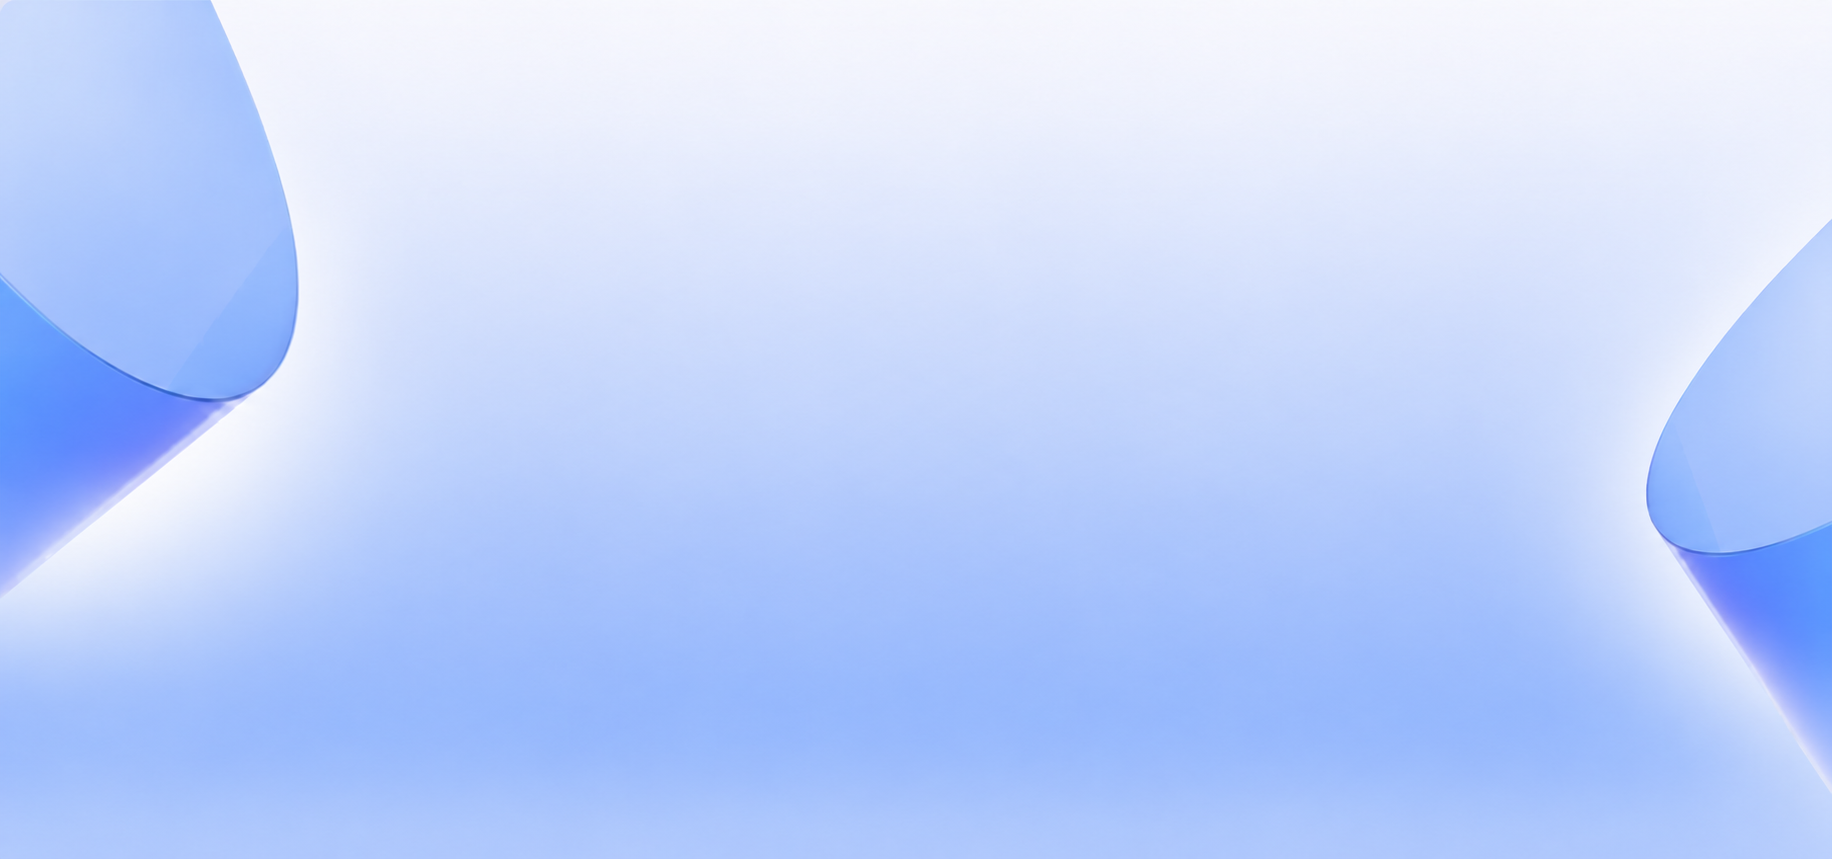
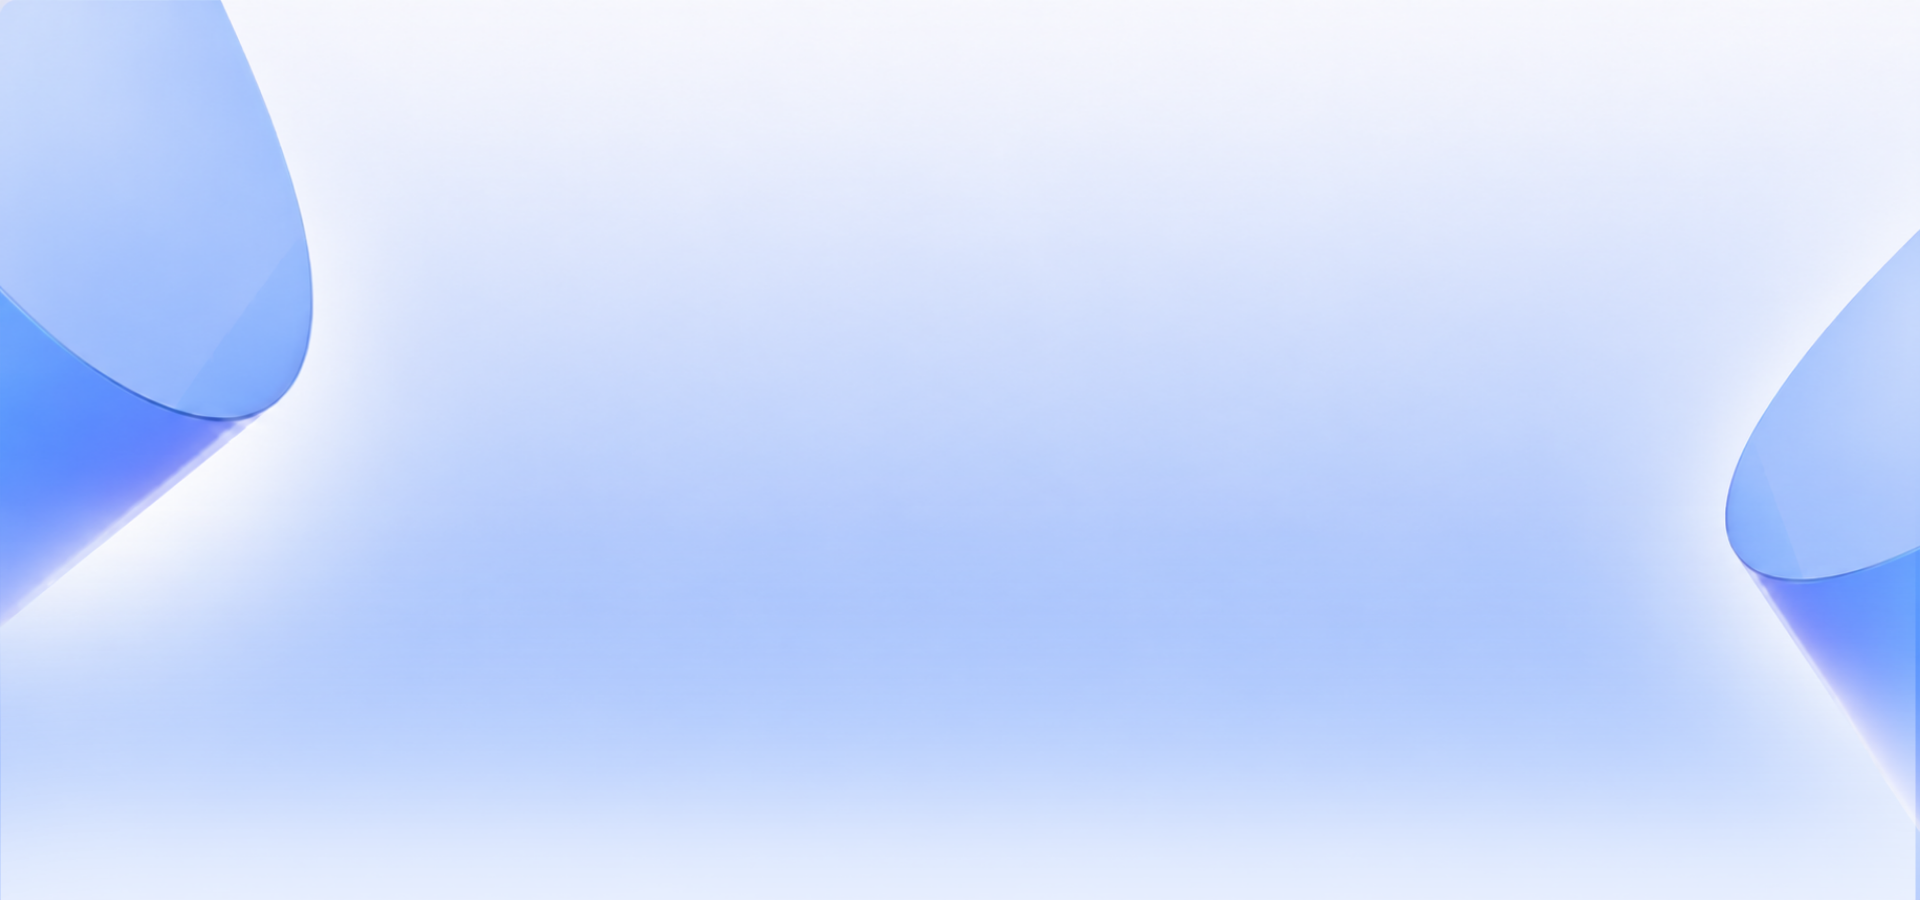
Adiciona imagem de bg no footer

Changed region(s): [[0.0, 0.6962, 1.0, 1.0]]

diff --git a/src/app/page.tsx b/src/app/page.tsx
@@ -508,21 +508,25 @@ export default function LandingPage() {
       </section>
 
       {/* Footer */}
-      <footer className="border-t border-slate-100 py-12 bg-white text-slate-450 text-xs">
-        <div className="max-w-7xl mx-auto px-6 lg:px-12 flex flex-col md:flex-row items-center justify-between gap-6">
-          <div className="flex items-center gap-2.5">
-            <div className="w-7 h-7 rounded-lg bg-blue-600 flex items-center justify-center shadow shadow-blue-650/15">
-              <Brain className="w-4 h-4 text-white" />
-            </div>
-            <span className="font-extrabold text-sm text-slate-900">PsiCoach AI</span>
+      <footer
+        className="relative text-white"
+        style={{
+          backgroundImage: "url('/imagens/imagem-bg-pc-ft.png')",
+          backgroundSize: '100% auto',
+          backgroundPosition: 'center top',
+          backgroundRepeat: 'no-repeat',
+          backgroundColor: '#4a7cf7',
+        }}
+      >
+        <div className="max-w-6xl mx-auto px-6 py-16 flex flex-col items-center gap-10">
+          <div className="flex items-center gap-6 flex-wrap justify-center text-white/70 text-sm font-medium">
+            <Link href="#diferenciais" className="hover:text-white transition-colors">Recursos</Link>
+            <Link href="#abordagens" className="hover:text-white transition-colors">Abordagens</Link>
+            <Link href="/pricing" className="hover:text-white transition-colors">Preços</Link>
+            <Link href="#depoimentos" className="hover:text-white transition-colors">Depoimentos</Link>
           </div>
 
-          <div className="flex items-center gap-6 flex-wrap justify-center text-slate-550 font-medium">
-            <span>© 2026 PsiCoach AI. Todos os direitos reservados.</span>
-            <Link href="/pricing" className="hover:text-blue-600 transition-colors">Preços</Link>
-            <Link href="/login" className="hover:text-blue-600 transition-colors">Login</Link>
-            <Link href="/cadastro" className="hover:text-blue-600 transition-colors">Cadastro</Link>
-          </div>
+          <p className="text-white/50 text-xs">© 2026 PsiCoach AI. Todos os direitos reservados.</p>
         </div>
       </footer>
 